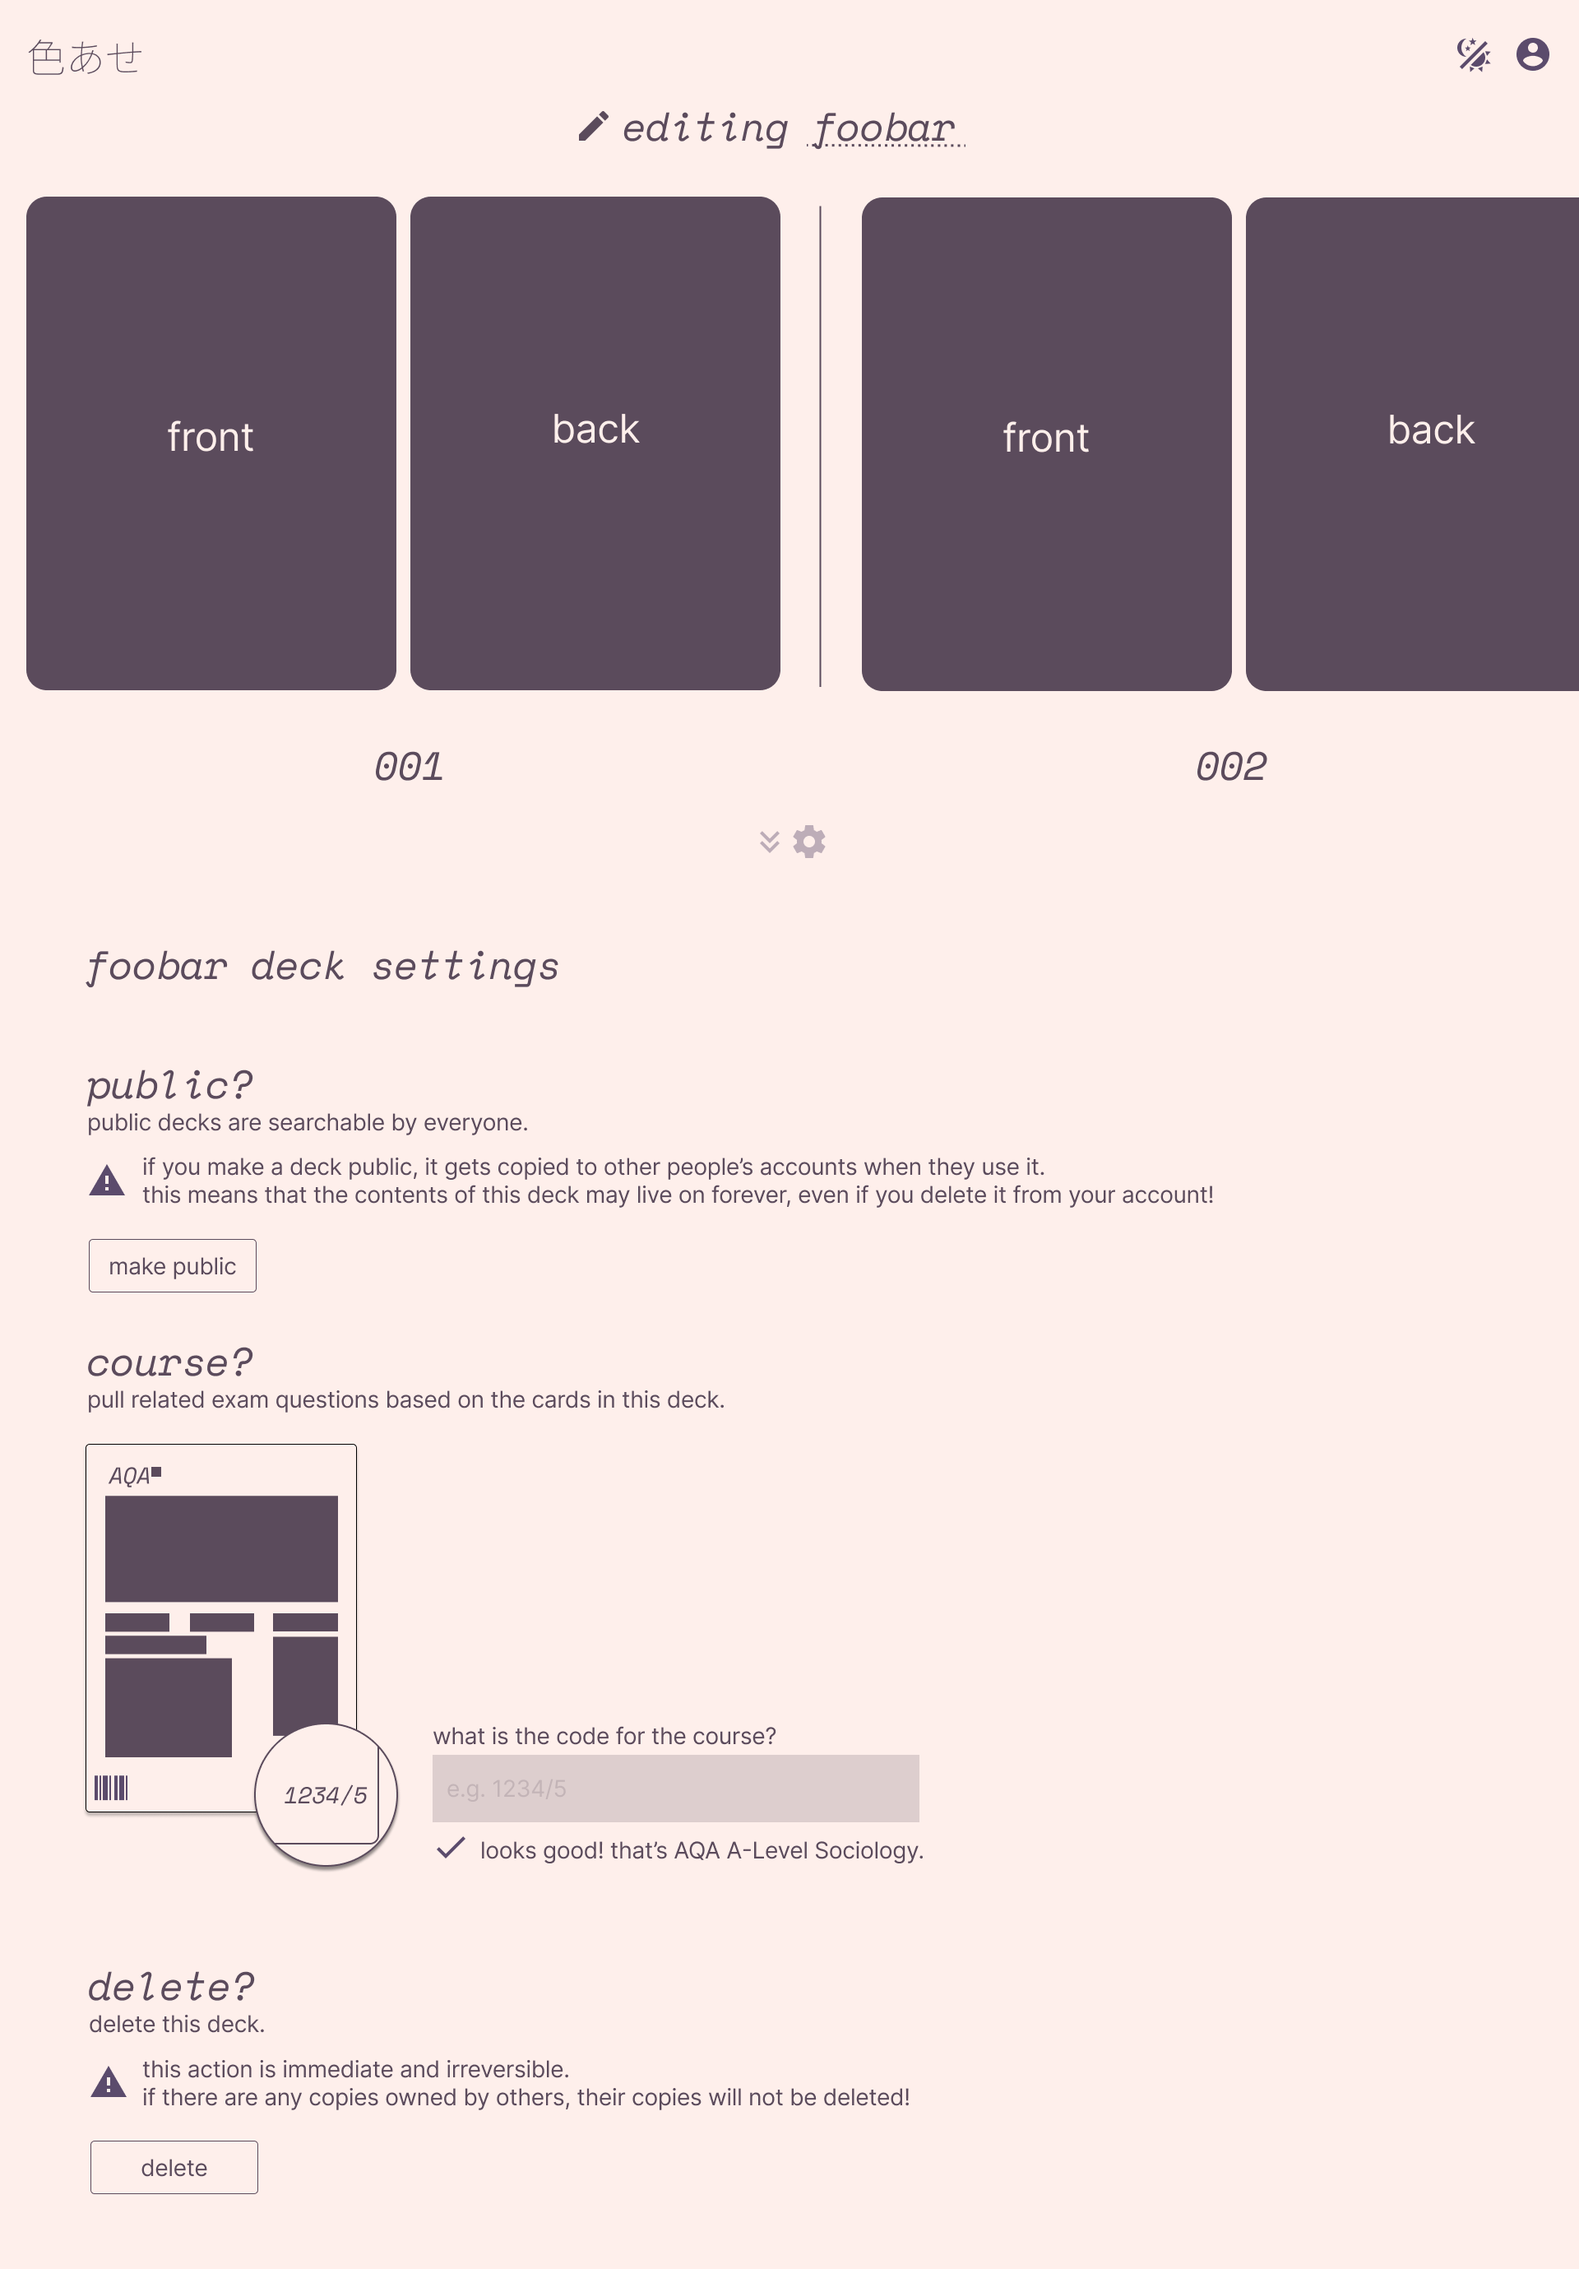
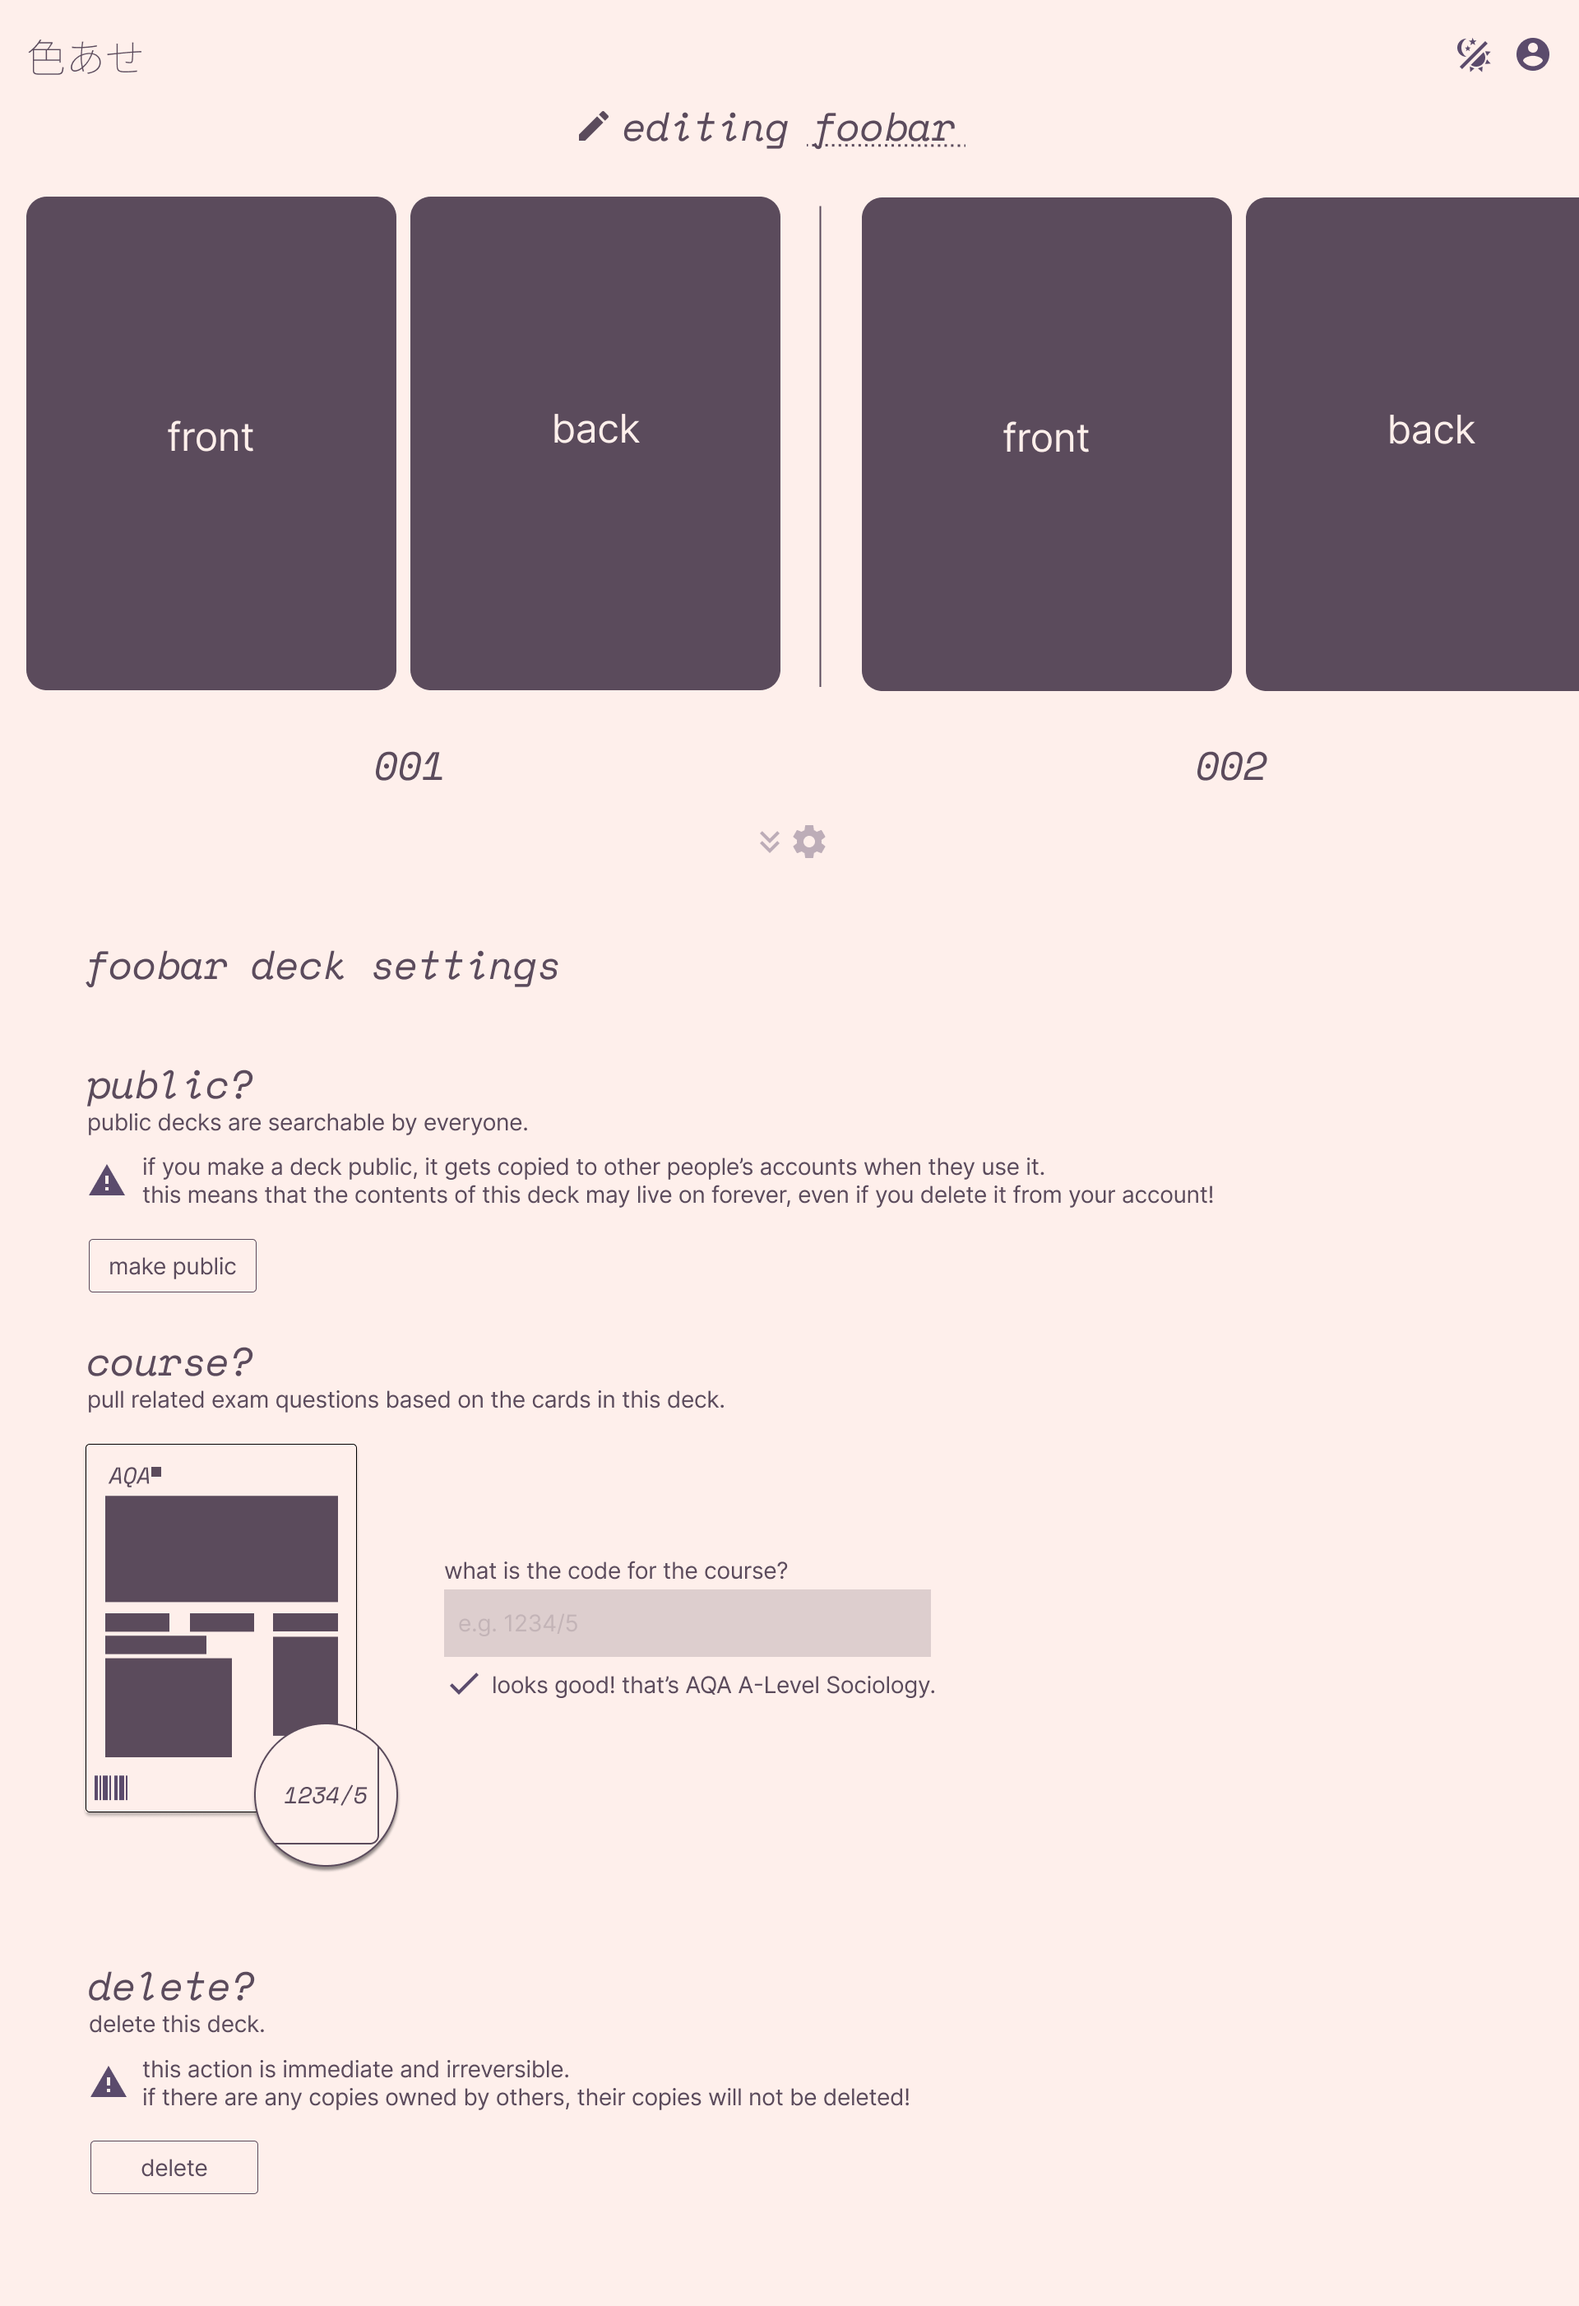
updated deck editor

diff --git a/report.tex b/report.tex
@@ -499,9 +499,9 @@ The app should be intuitive, casual and approachable, but still have some person
 
 \begin{figure}[H]
   \centering
-  \includegraphics[height=16cm]{./media/ui/deck.png}
+  \includegraphics[height=17.5cm]{./media/ui/deck.png}
   \label{fig:editor1}
-  \caption{The deck editor. Settings are below the page fold, with a scroll hint telling the user to scroll for settings. They can mark their deck as public, optionally set the course that the deck is related to, or delete the deck. There is a wireframe of the exam paper next to the course box, to assist them in locating the course code.}
+  \caption{The deck editor. Settings are below the page fold, with a scroll hint telling the user to scroll for settings. They can mark their deck as public, optionally set the course that the deck is related to, or delete the deck. There is a wireframe of the exam paper next to the course box, to assist them in locating the course code. The input box should check to see if the code enters matches a course, and provide feedback.}
 \end{figure}
 
 \subsection{Usability}
